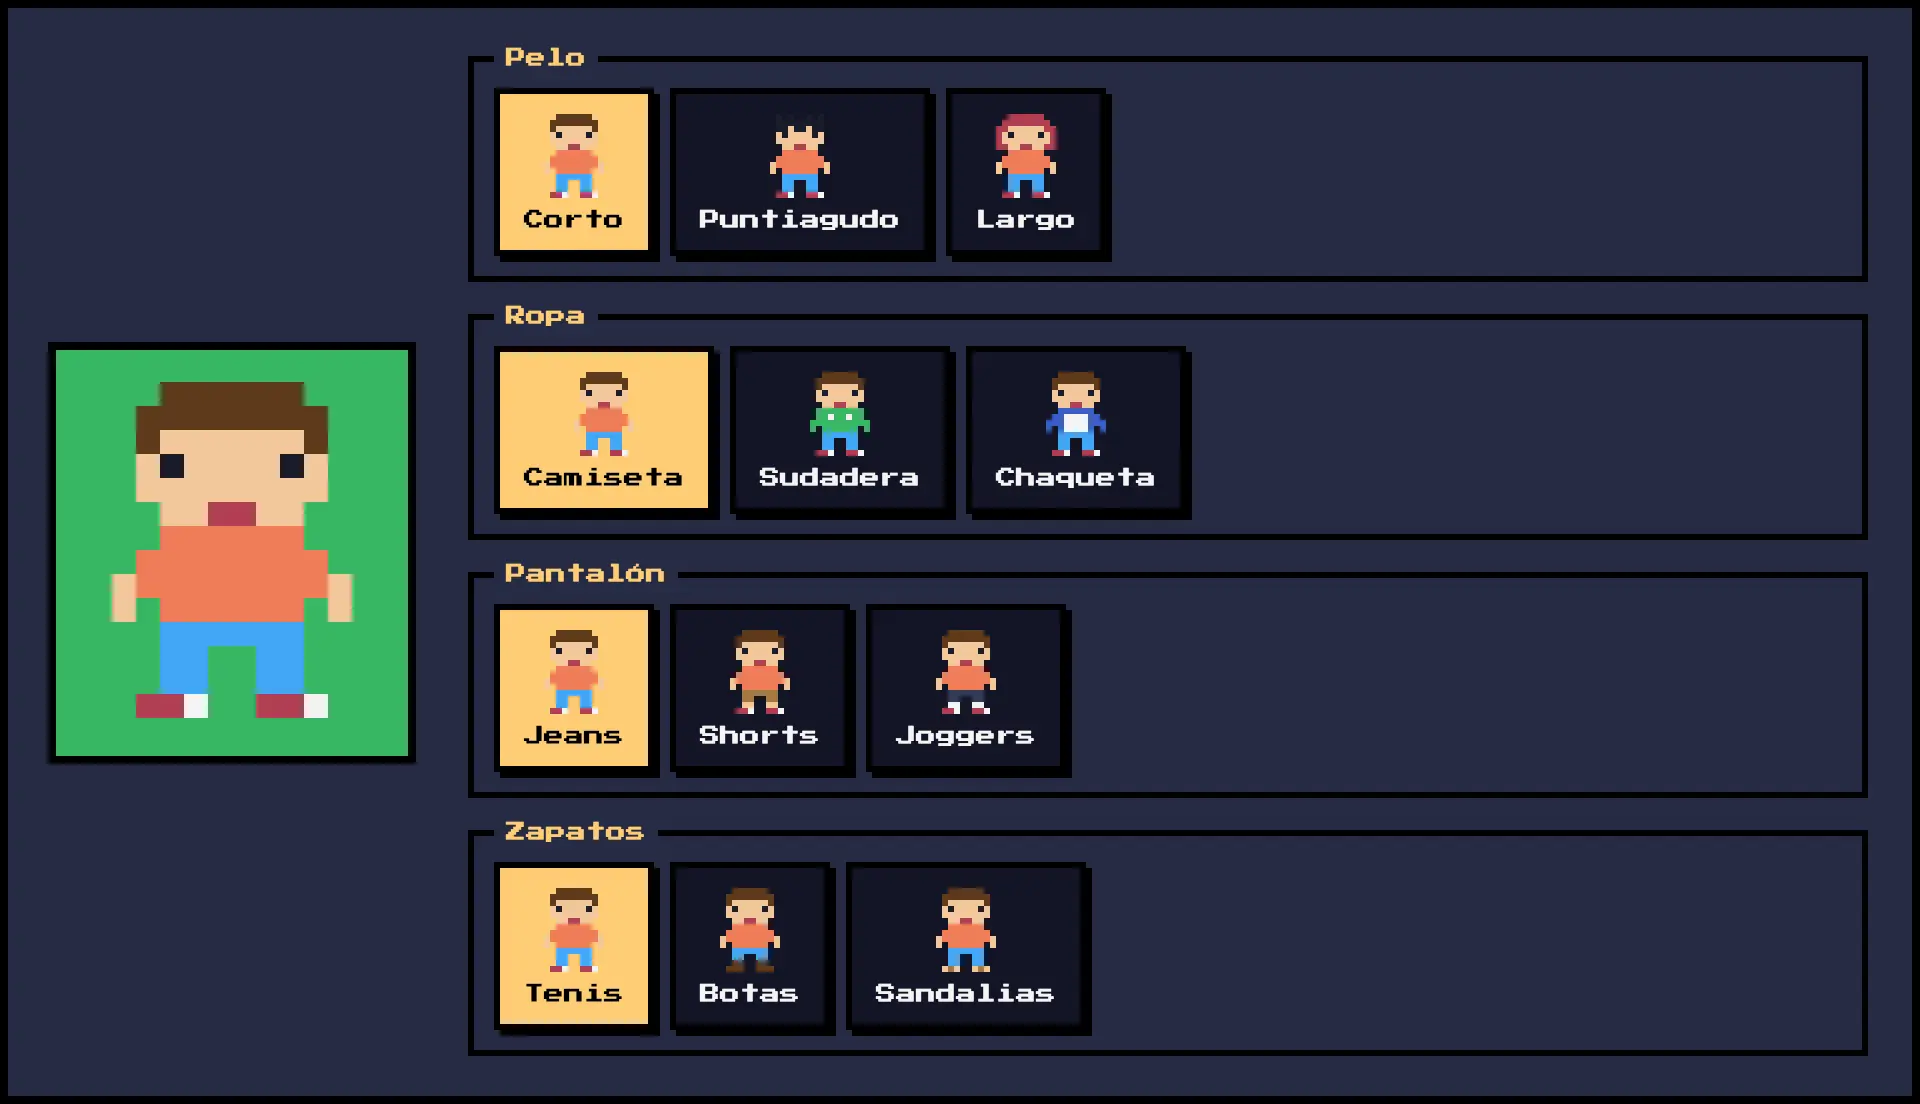
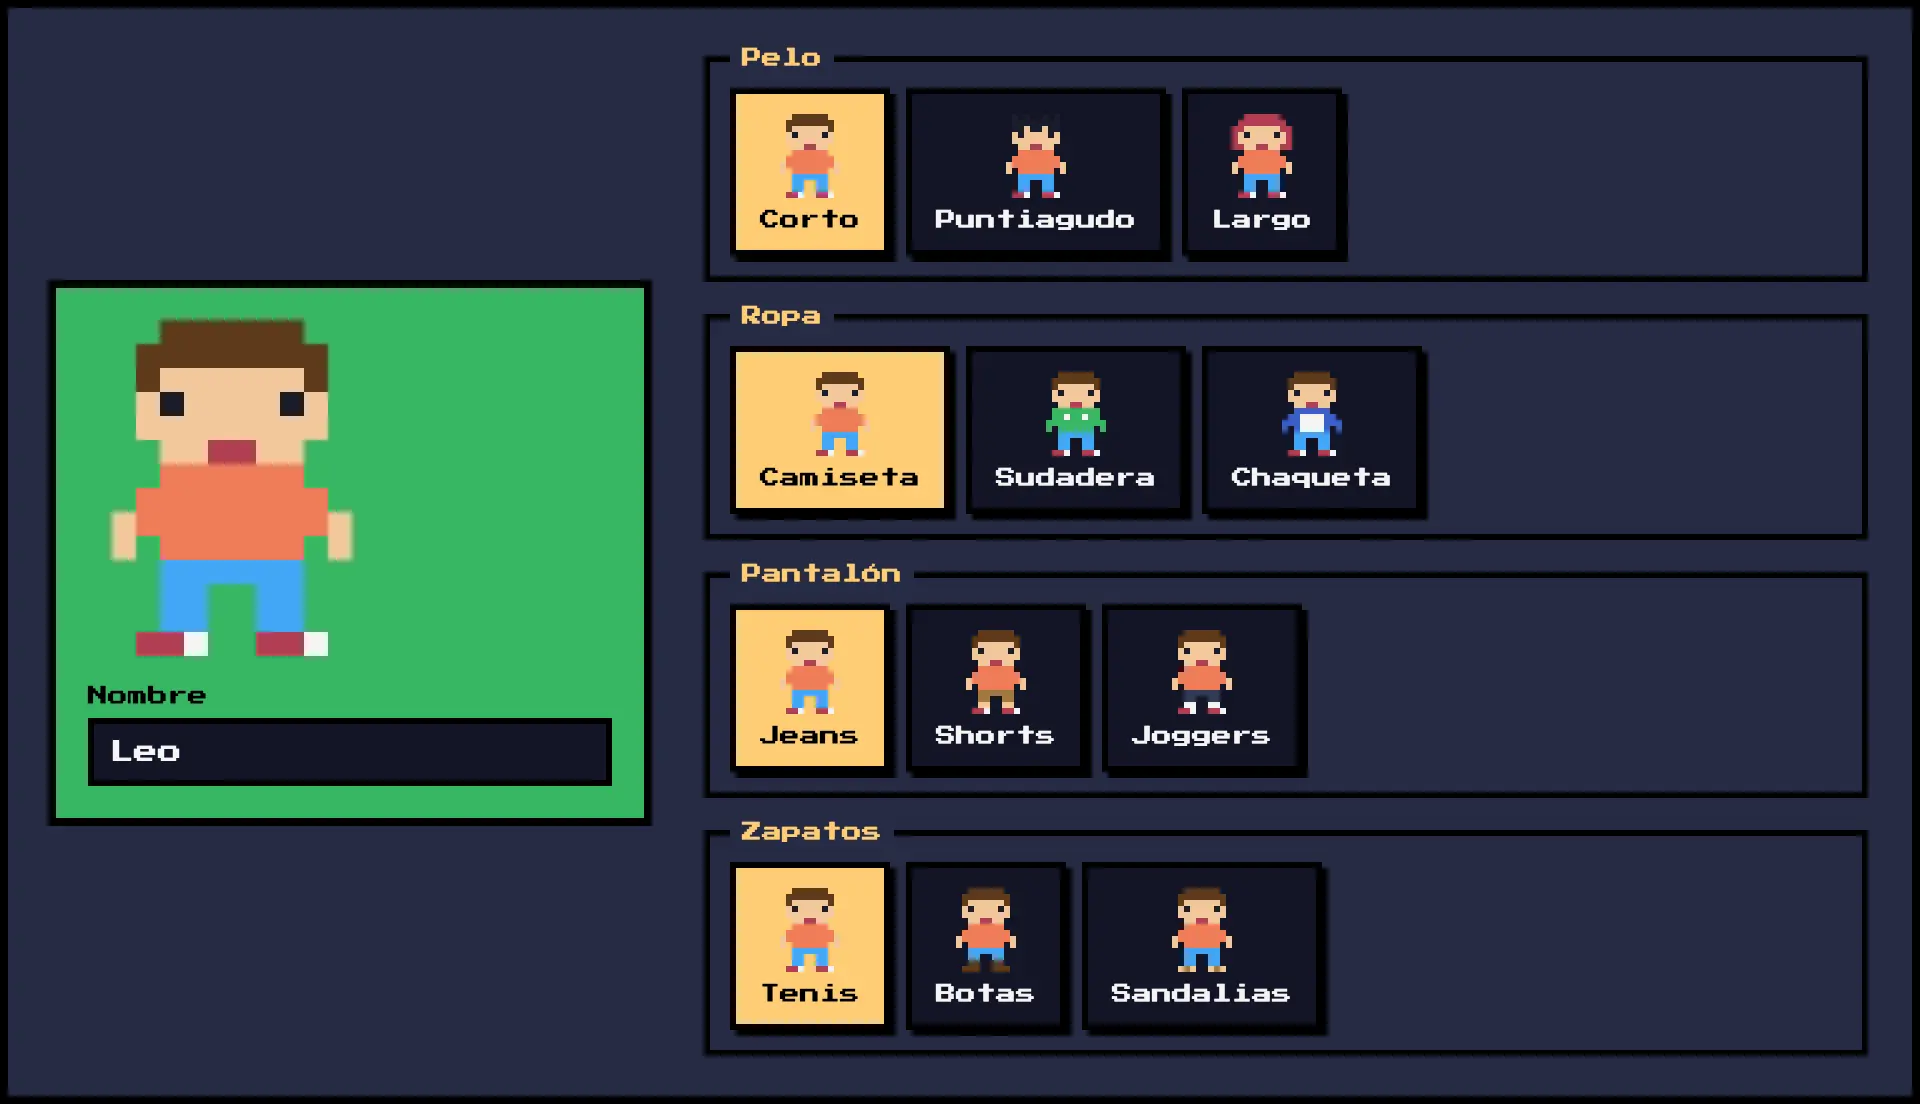
feat: let players name their character and refresh the landing page
Save gains a cleaned name (default Leo, max 16 chars) edited on the
customization screen; changing it unlocks the stylist achievement.
Landing: clean sprite key art in a product-stage hero, a customize
section and a contribute-a-kingdom section.

diff --git a/landing/index.html b/landing/index.html
@@ -49,14 +49,23 @@
 <!-- page CSS: inside visuals only -->
 <style>
   /* the game is pixel art: keep its pixels square at every scale */
-  .frame__img, .hero__bg, .menu-card img { image-rendering: pixelated; }
+  .frame__img, .hero__stage img, .menu-card img { image-rendering: pixelated; }
+  .hero__stage img { object-fit: contain; }
   .menu-card .panel { --p-h: 200px; }
   #reinos .panel { --p-h: 500px; }
   #reinos .panel .frame__img { object-fit: cover; object-position: 50% 0; }
   #pasos .panel { --p-h: 260px; }
+  #contribuye .frame { --ratio: 62%; }
+  #contribuye .tree-box { position: absolute; inset: 0; }
+  #contribuye .tree-icons { display: flex; gap: var(--s-3); padding: var(--s-6) var(--s-6) 0; }
+  #contribuye .tree { margin: 0; padding: var(--s-6); font: 500 15px/1.9 var(--font-mono); color: var(--p-ink); white-space: pre; }
+  @media (max-width: 639px) { #contribuye .frame { --ratio: 85%; } #contribuye .tree { font-size: 11px; padding: var(--s-4); } #contribuye .tree-icons { padding: var(--s-4) var(--s-4) 0; } }
+  #contribuye .tree b { color: var(--p-ink); font-weight: 500; }
+  #contribuye .tree i { color: var(--p-accent); font-style: normal; }
   /* keep Leo's preview, on the image's left edge, inside the crop */
   #leo .frame__img { object-position: 0 50%; }
   @media (max-width: 1023px) { #mapa .frame { --ratio: 60%; } }
+  @media (max-width: 639px) { #mapa .frame { --ratio: 90%; } .hero .btn--secondary { display: none; } }
   @media (max-width: 639px) { #reinos .panel { --p-h: 300px; } #pasos .panel { --p-h: 140px; } }
   /* one look for the main action: the statement footer keeps the page's action colour on this dark page */
   .footer--statement { --action: var(--p-action); --action-ink: var(--p-action-ink); }
@@ -64,11 +73,12 @@
 </head>
 <body>
 <!-- type: software (site-kind gaming)
-     deal: hero photo (the game's own overworld capture as key art), nav nav-cards, close close-type,
+     deal: hero product (re-dealt with --has object: a clean key art from the game's sprites; the overworld capture read as too busy), nav nav-cards, close close-type,
      footer footer-statement, rhythm space, buttons pill, mark dots, grounds: lit ground sky on the footer
      palette blue-black-cornflower (a night-blue ground like the game's own UI, a sky-blue accent like its Cloud castle),
      type mona (sora took 4 lines on the hero at 1440)
-     moments: iris-opens on #leo -->
+     moments: iris-opens on #leo
+     #contribuye: a code-tree frame of src/worlds; links to a new pull request and the kingdom guide -->
 
 <header class="nav">
   <div class="wrap nav__bar">
@@ -99,7 +109,8 @@
       </div>
       <div class="nav__item"><a class="nav__link" href="#mapa">El mapa</a></div>
       <div class="nav__item"><a class="nav__link" href="#pasos">Cómo se juega</a></div>
-      <div class="nav__item"><a class="nav__link" href="#leo">Leo</a></div>
+      <div class="nav__item"><a class="nav__link" href="#leo">Tu mono</a></div>
+      <div class="nav__item"><a class="nav__link" href="#contribuye">Contribuir</a></div>
     </nav>
     <div class="nav__actions">
       <a class="btn btn--primary" href="play/">Jugar gratis</a>
@@ -111,21 +122,19 @@
 </header>
 
 <main id="top">
-  <!-- CLIENT FILE key-art: img/hero-overworld.webp (the overworld, captured from the game at 2x) -->
-  <section class="hero hero--photo" data-enter data-calm="left" aria-labelledby="hero-h">
-    <img class="hero__bg" src="img/hero-overworld.webp" alt="Mapa pixel art con un camino de tierra, el castillo naranja de Java y el castillo azul de la Nube" style="--ly-pos: 70% 50%; --ly-pos-phone: 60% 40%" fetchpriority="high">
-    <div class="wrap"><div class="hero-text">
-      <div class="hero__text">
-        <h1 id="hero-h">Code Kingdoms, juego pixel art</h1>
-        <p class="hero__lead">Camina por un mapa de castillos y resuelve 40 retos cortos de Java y AWS CLI. Gratis, en el navegador.</p>
+  <!-- key art: img/keyart.webp, drawn from the game's own sprites (castles from WalkMap, Leo from avatar.js) on a transparent ground -->
+  <section class="hero hero--product" data-enter aria-labelledby="hero-h">
+    <div class="wrap"><div class="hero-text hero__in">
+      <div class="hero__head">
+        <div>
+          <h1 id="hero-h">Code Kingdoms, juego pixel art</h1>
+          <p class="hero__lead">40 retos de Java y AWS CLI en un mapa de castillos. Gratis.</p>
+        </div>
         <div class="btn-row"><a class="btn btn--primary" href="play/">Jugar gratis<svg class="m-arrow" viewBox="0 0 12 12" aria-hidden="true"><path class="m-arrow__stem" d="M1 6h8"/><path class="m-arrow__head" d="M4.5 2.5 8 6l-3.5 3.5"/></svg></a><a class="btn btn--secondary" href="#reinos">Ver los reinos</a></div>
       </div>
-      <dl class="hero__facts">
-        <div><dt>Niveles</dt><dd>40 en 2 reinos</dd></div>
-        <div><dt>Precio</dt><dd>Gratis, sin cuenta</dd></div>
-        <div><dt>Progreso</dt><dd>Guardado en tu navegador</dd></div>
-        <div><dt>Controles</dt><dd>Flechas, WASD o clic</dd></div>
-      </dl>
+      <div class="hero__stage">
+        <img src="img/keyart.webp" alt="Leo, el personaje del juego, en un camino entre el castillo naranja de Java, el castillo azul de la Nube y un castillo gris aún cerrado" style="--ly-pos: 50% 50%" fetchpriority="high">
+      </div>
     </div></div>
   </section>
 
@@ -175,7 +184,7 @@
         </article>
         <article class="card card--row card--open span-4">
           <span class="step-num">2</span>
-          <h3>Resuelve el reto de código</h3>
+          <h3>Resuelve 1 reto por nivel</h3>
           <p>Lee la pista, escribe tu respuesta y pulsa Ejecutar.</p>
           <div class="panel"><img class="frame__img" src="img/cloud-parts.webp" alt="Partes 1-1, 1-2 y 1-3 del Reino de la Nube" loading="lazy"></div>
         </article>
@@ -194,14 +203,45 @@
       <div class="grid">
         <div class="span-5">
           <div class="section-head">
-            <h2 id="leo-h">El armario de Leo</h2>
-            <p>Leo es tu personaje. Elige su pelo, su ropa, sus pantalones y sus zapatos, con 3 estilos para cada uno. Se guarda solo.</p>
+            <h2 id="leo-h">Personaliza a tu mono</h2>
+            <p>Ponle tu nombre y elige su pelo, su ropa, su pantalón y sus zapatos, con 3 estilos para cada uno. Se guarda solo.</p>
           </div>
-          <a class="link" href="play/">Vestir a Leo en el juego</a>
+          <a class="link" href="play/">Crear tu mono en el juego</a>
         </div>
         <div class="frame frame--split frame--photo span-6 start-7">
-          <img class="frame__img" src="img/wardrobe.webp" alt="Armario de Leo con estilos de pelo, ropa, pantalón y zapatos" loading="lazy">
+          <img class="frame__img" src="img/wardrobe.webp" alt="Pantalla de personalización con el nombre del personaje y estilos de pelo, ropa, pantalón y zapatos" loading="lazy">
         </div>
+      </div>
+    </div>
+  </section>
+  <section class="section" id="contribuye" aria-labelledby="contribuye-h">
+    <div class="wrap">
+      <div class="grid">
+        <div class="span-5">
+          <div class="section-head">
+            <h2 id="contribuye-h">Un reino nuevo con tu lenguaje</h2>
+            <p>¿Quieres un reino de Python, SQL o Git? Cada reino es una carpeta en src/worlds con sus niveles y un motor que revisa la respuesta. Créalo en tu fork y abre un pull request.</p>
+          </div>
+          <div class="btn-row">
+            <a class="btn btn--secondary" href="https://github.com/Leoglez10/code-kingdoms/compare">Abrir un pull request</a>
+            <a class="link" href="https://github.com/Leoglez10/code-kingdoms#adding-a-new-kingdom">Leer la guía de reinos</a>
+          </div>
+        </div>
+        <div class="frame frame--split span-6 start-7"><div class="stage"><div class="tree-box">
+<div class="tree-icons">
+  <span class="ic-tile ic-tile--40"><img class="ic ic-40 ic-ink" src="assets/icons/github.svg" alt="GitHub" width="40" height="39"></span>
+  <span class="ic-tile ic-tile--40"><img class="ic ic-40 ic-tall" src="assets/icons/java.svg" alt="Java" width="30" height="40"></span>
+  <span class="ic-tile ic-tile--40"><img class="ic ic-40" src="assets/icons/python.svg" alt="Python" width="40" height="40"></span>
+  <span class="ic-tile ic-tile--40"><img class="ic ic-40" src="assets/icons/git.svg" alt="Git" width="40" height="40"></span>
+</div>
+<pre class="tree" aria-label="Carpeta src/worlds con los reinos java y cloud, y un reino nuevo">src/worlds/
+├── <b>java/</b>          30 niveles
+├── <b>cloud/</b>         10 niveles
+├── <i>tu-lenguaje/</i>   tu reino
+│   ├── index.js   niveles y mapa
+│   └── engine.js  revisa la respuesta
+└── index.js       registra el reino</pre>
+        </div></div></div>
       </div>
     </div>
   </section>
@@ -223,8 +263,8 @@
           <p class="footer__lede">Un juego pixel art para aprender Java y AWS CLI.</p>
         </div>
         <div class="span-2 footer__col"><h3>Juego</h3><ul><li><a href="#mapa">El mapa</a></li><li><a href="#pasos">Cómo se juega</a></li></ul></div>
-        <div class="span-2 footer__col"><h3>Reinos</h3><ul><li><a href="#reinos">Java y Nube</a></li><li><a href="#leo">Leo</a></li></ul></div>
-        <div class="span-2 footer__col"><h3>Proyecto</h3><ul><li><a href="https://github.com/Leoglez10/code-kingdoms">Código en GitHub</a></li></ul></div>
+        <div class="span-2 footer__col"><h3>Reinos</h3><ul><li><a href="#reinos">Java y Nube</a></li><li><a href="#leo">Tu mono</a></li></ul></div>
+        <div class="span-2 footer__col"><h3>Proyecto</h3><ul><li><a href="#contribuye">Contribuir</a></li><li><a href="https://github.com/Leoglez10/code-kingdoms">Código en GitHub</a></li></ul></div>
       </div>
       <div class="footer__legal">
         <span>&copy; 2026 Code Kingdoms</span>

diff --git a/src/App.jsx b/src/App.jsx
@@ -2,7 +2,7 @@ import { useEffect, useRef, useState } from 'react';
 import { WORLDS, partsOf, chaptersOf } from './worlds/index.js';
 import { chapterStatus } from './game/parts.js';
 import {
-  loadSave, writeSave, recordPass, recordFail, setDraft, setAvatar, importLegacy, partStatus,
+  loadSave, writeSave, recordPass, recordFail, setDraft, setAvatar, setName, importLegacy, partStatus,
 } from './game/save.js';
 import { achievementsFor, newlyUnlocked } from './game/achievements.js';
 import WalkMap from './components/WalkMap.jsx';
@@ -127,10 +127,10 @@ export default function App() {
       score={`${Math.min(Math.max(completed - p.start, 0), p.end - p.start)}/${p.end - p.start}`}
       onEnter={s => setLevel({ worldId: world.id, index: s.index })} />;
   } else if (screen.name === 'wardrobe') {
-    title = 'EL ARMARIO DE LEO';
+    title = 'PERSONALIZA TU PERSONAJE';
     back = { name: 'overworld' };
-    help = 'Elige un estilo para cada parte. Se guarda solo.';
-    body = <Wardrobe avatar={save.avatar} onChange={(slot, v) => setSave(s => setAvatar(s, slot, v))} />;
+    help = 'Ponle tu nombre y elige un estilo para cada parte. Se guarda solo.';
+    body = <Wardrobe avatar={save.avatar} name={save.name} onName={n => setSave(s => setName(s, n))} onChange={(slot, v) => setSave(s => setAvatar(s, slot, v))} />;
   } else {
     title = 'LOGROS';
     back = { name: 'overworld' };
@@ -146,7 +146,7 @@ export default function App() {
       <p className="help">Tu progreso se guarda solo en este navegador.</p>
       <div className="buttons">
         {back && <button className="secondary" onClick={() => go(back)}>◀ Volver</button>}
-        <button className="secondary leo-btn" onClick={() => go({ name: 'wardrobe' })}><Leo avatar={save.avatar} size={2} /> Leo</button>
+        <button className="secondary leo-btn" onClick={() => go({ name: 'wardrobe' })}><Leo avatar={save.avatar} size={2} /> {save.name}</button>
         <button className="secondary" onClick={() => go({ name: 'achievements' })}>🏆 Logros {achievements.filter(a => a.unlocked).length}/{achievements.length}</button>
         {['kingdom', 'chapter'].includes(screen.name) && <LegacyImport world={world} onImport={raw => setSave(importLegacy(save, world, raw))} />}
       </div>

diff --git a/src/game/save.js b/src/game/save.js
@@ -3,6 +3,8 @@
 export const SAVE_KEY = 'codeKingdoms.save.v1';
 export const AVATAR_SLOTS = ['hair', 'shirt', 'pants', 'shoes'];
 export const STYLES_PER_SLOT = 3;
+export const DEFAULT_NAME = 'Leo';
+export const NAME_LIMIT = 16;
 const DRAFT_LIMIT = 20000;
 
 const emptyWorld = () => ({ completed: 0, drafts: {}, attempts: {} });
@@ -12,6 +14,7 @@ export function emptySave(worlds) {
   return {
     version: 1,
     worlds: Object.fromEntries(worlds.map(w => [w.id, emptyWorld()])),
+    name: DEFAULT_NAME,
     avatar: Object.fromEntries(AVATAR_SLOTS.map(s => [s, 0])),
     flawless: [],
   };
@@ -34,6 +37,7 @@ export function sanitizeSave(raw, worlds) {
   const base = emptySave(worlds);
   if (!isObj(raw)) return base;
   for (const w of worlds) base.worlds[w.id] = sanitizeWorld(raw.worlds?.[w.id], w.levels.length);
+  if (typeof raw.name === 'string') base.name = cleanName(raw.name);
   for (const slot of AVATAR_SLOTS) {
     const v = raw.avatar?.[slot];
     if (Number.isInteger(v) && v >= 0 && v < STYLES_PER_SLOT) base.avatar[slot] = v;
@@ -72,6 +76,10 @@ export const recordFail = (save, id, i) =>
 
 export const setDraft = (save, id, i, code) =>
   updateWorld(save, id, w => ({ ...w, drafts: { ...w.drafts, [i]: code } }));
+
+const cleanName = name => String(name).trim().slice(0, NAME_LIMIT).trim() || DEFAULT_NAME;
+
+export const setName = (save, name) => ({ ...save, name: cleanName(name) });
 
 export function setAvatar(save, slot, value) {
   if (!AVATAR_SLOTS.includes(slot) || !Number.isInteger(value) || value < 0 || value >= STYLES_PER_SLOT) return save;

diff --git a/src/game/save.test.js b/src/game/save.test.js
@@ -1,7 +1,7 @@
 import { describe, it, expect } from 'vitest';
 import {
   SAVE_KEY, emptySave, sanitizeSave, loadSave, writeSave,
-  recordPass, recordFail, setDraft, setAvatar, importLegacy, partStatus,
+  recordPass, recordFail, setDraft, setAvatar, setName, importLegacy, partStatus,
 } from './save.js';
 
 const WORLDS = [
@@ -76,6 +76,17 @@ describe('progress', () => {
     expect([0, 1, 2].map(p => partStatus(WORLDS[0], s, p))).toEqual(['open', 'locked', 'locked']);
     for (let i = 0; i < 4; i++) s = recordPass(s, 'java', i);
     expect([0, 1, 2].map(p => partStatus(WORLDS[0], s, p))).toEqual(['done', 'open', 'locked']);
+  });
+
+  it('names the character Leo by default and keeps a trimmed name up to 16 characters', () => {
+    expect(emptySave(WORLDS).name).toBe('Leo');
+    const s = setName(emptySave(WORLDS), '  Ana  ');
+    expect(s.name).toBe('Ana');
+    expect(setName(s, 'x'.repeat(20)).name).toBe('x'.repeat(16));
+    expect(setName(s, '   ').name).toBe('Leo');
+    expect(sanitizeSave({ name: 'Max' }, WORLDS).name).toBe('Max');
+    expect(sanitizeSave({ name: 42 }, WORLDS).name).toBe('Leo');
+    expect(sanitizeSave({ name: '' }, WORLDS).name).toBe('Leo');
   });
 
   it('changes one avatar slot within 0..2', () => {

diff --git a/src/components/Wardrobe.jsx b/src/components/Wardrobe.jsx
@@ -1,13 +1,24 @@
+import { useState } from 'react';
 import Leo from './Leo.jsx';
 import { STYLES } from '../game/avatar.js';
-import { AVATAR_SLOTS } from '../game/save.js';
+import { AVATAR_SLOTS, NAME_LIMIT } from '../game/save.js';
 
 const SLOT_NAMES = { hair: 'Pelo', shirt: 'Ropa', pants: 'Pantalón', shoes: 'Zapatos' };
 
-export default function Wardrobe({ avatar, onChange }) {
+export default function Wardrobe({ avatar, name, onName, onChange }) {
+  // Local text so spaces survive while typing; the save keeps the cleaned name.
+  const [draft, setDraft] = useState(name);
   return (
     <section className="card wardrobe">
-      <div className="wardrobe-preview"><Leo avatar={avatar} size={12} /></div>
+      <div className="wardrobe-preview">
+        <Leo avatar={avatar} size={12} />
+        <label className="wardrobe-name">
+          <span>Nombre</span>
+          <input value={draft} maxLength={NAME_LIMIT} autoComplete="off" spellCheck={false}
+            onChange={e => { setDraft(e.target.value); onName(e.target.value); }}
+            onBlur={() => setDraft(name)} />
+        </label>
+      </div>
       <div className="wardrobe-slots">
         {AVATAR_SLOTS.map(slot => (
           <fieldset key={slot}>

diff --git a/src/styles.css b/src/styles.css
@@ -40,6 +40,8 @@ pre { background: var(--code); padding: 12px; overflow: auto; border-left: 4px s
 
 .wardrobe { display: flex; flex-wrap: wrap; gap: 24px; align-items: center; justify-content: center; }
 .wardrobe-preview { background: #38b764; border: 4px solid #000; padding: 16px; }
+.wardrobe-name { display: grid; gap: 6px; margin-top: 12px; font-family: var(--pixel); font-size: 10px; color: #000; }
+.wardrobe-name input { width: 100%; box-sizing: border-box; font: inherit; font-size: 12px; padding: 8px; border: 3px solid #000; background: var(--code); color: var(--ink); }
 .wardrobe-slots { display: grid; gap: 12px; flex: 1; min-width: 260px; }
 fieldset { border: 3px solid #000; display: flex; flex-wrap: wrap; gap: 8px; padding: 10px; }
 legend { font-family: var(--pixel); font-size: 10px; color: var(--accent); padding: 0 6px; }

diff --git a/src/game/achievements.test.js b/src/game/achievements.test.js
@@ -1,6 +1,6 @@
 import { describe, it, expect } from 'vitest';
 import { achievementsFor, newlyUnlocked } from './achievements.js';
-import { emptySave, recordPass, recordFail, setAvatar } from './save.js';
+import { emptySave, recordPass, recordFail, setAvatar, setName } from './save.js';
 
 const WORLDS = [
   { id: 'java', name: 'Java', levels: Array(10).fill({}), partSizes: [4, 3, 3] },
@@ -47,6 +47,7 @@ describe('achievements', () => {
 
   it('unlocks stylist when Leo changes style', () => {
     expect(unlocked(setAvatar(emptySave(WORLDS), 'shoes', 1))).toEqual(['stylist']);
+    expect(unlocked(setName(emptySave(WORLDS), 'Ana'))).toEqual(['stylist']);
   });
 
   it('adds one achievement per world when a kingdom has several worlds', () => {

diff --git a/src/game/achievements.js b/src/game/achievements.js
@@ -24,7 +24,7 @@ export function achievementsFor(worlds, save) {
   }
   list.push(
     { id: 'flawless', icon: '🎯', title: 'Sin tropiezos', desc: 'Supera 5 niveles al primer intento.', unlocked: save.flawless.length >= 5 },
-    { id: 'stylist', icon: '🎨', title: 'Con estilo', desc: 'Cambia la ropa o el pelo de Leo.', unlocked: Object.values(save.avatar).some(v => v !== 0) },
+    { id: 'stylist', icon: '🎨', title: 'Con estilo', desc: 'Cambia el nombre, la ropa o el pelo de tu personaje.', unlocked: save.name !== 'Leo' || Object.values(save.avatar).some(v => v !== 0) },
     { id: 'polyglot', icon: '🌍', title: 'Políglota', desc: 'Completa todos los reinos.', unlocked: worlds.every(complete) },
   );
   return list;

diff --git a/README.es.md b/README.es.md
@@ -23,7 +23,7 @@ Un juego 2D en pixel art para aprender lenguajes de programación y la nube. Emp
 | Reino de Java | 3 mundos y 30 niveles: **Fundamentos** (variables, bucles, arrays, métodos), **Herramientas** (Strings, `switch`, `do-while`, arrays 2D) y **Objetos** (clases, constructores, encapsulación, herencia). |
 | Reino de Cloud | Escribe comandos simulados de la AWS CLI (S3, IAM, EC2). Nada llega a AWS y nada cuesta dinero. |
 | Logros | Se desbloquean al completar partes, terminar reinos y más. |
-| Leo, tu personaje | Personaliza a Leo con 3 estilos de pelo, 3 de camisa, 3 de pantalón y 3 de zapatos. |
+| Tu personaje | Ponle tu nombre (Leo por defecto) y elige entre 3 estilos de pelo, 3 de camisa, 3 de pantalón y 3 de zapatos. |
 | Progreso guardado | Todo se guarda en tu navegador (localStorage). |
 
 ## Cómo empezar

diff --git a/README.md b/README.md
@@ -23,7 +23,7 @@ A 2D pixel-art game for learning programming languages and the cloud. Start on a
 | Java kingdom | 3 worlds, 30 levels: **Fundamentos** (variables, loops, arrays, methods), **Herramientas** (Strings, `switch`, `do-while`, 2D arrays) and **Objetos** (classes, constructors, encapsulation, inheritance). |
 | Cloud kingdom | Type simulated AWS CLI commands (S3, IAM, EC2). Nothing reaches AWS and nothing costs money. |
 | Achievements | Unlocked for clearing parts, finishing kingdoms, and more. |
-| Leo, your character | Customize Leo with 3 hair, 3 shirt, 3 pants and 3 shoe styles. |
+| Your character | Give it your name (Leo by default) and pick from 3 hair, 3 shirt, 3 pants and 3 shoe styles. |
 | Saved progress | Everything is saved in your browser (localStorage). |
 
 ## Quick path
